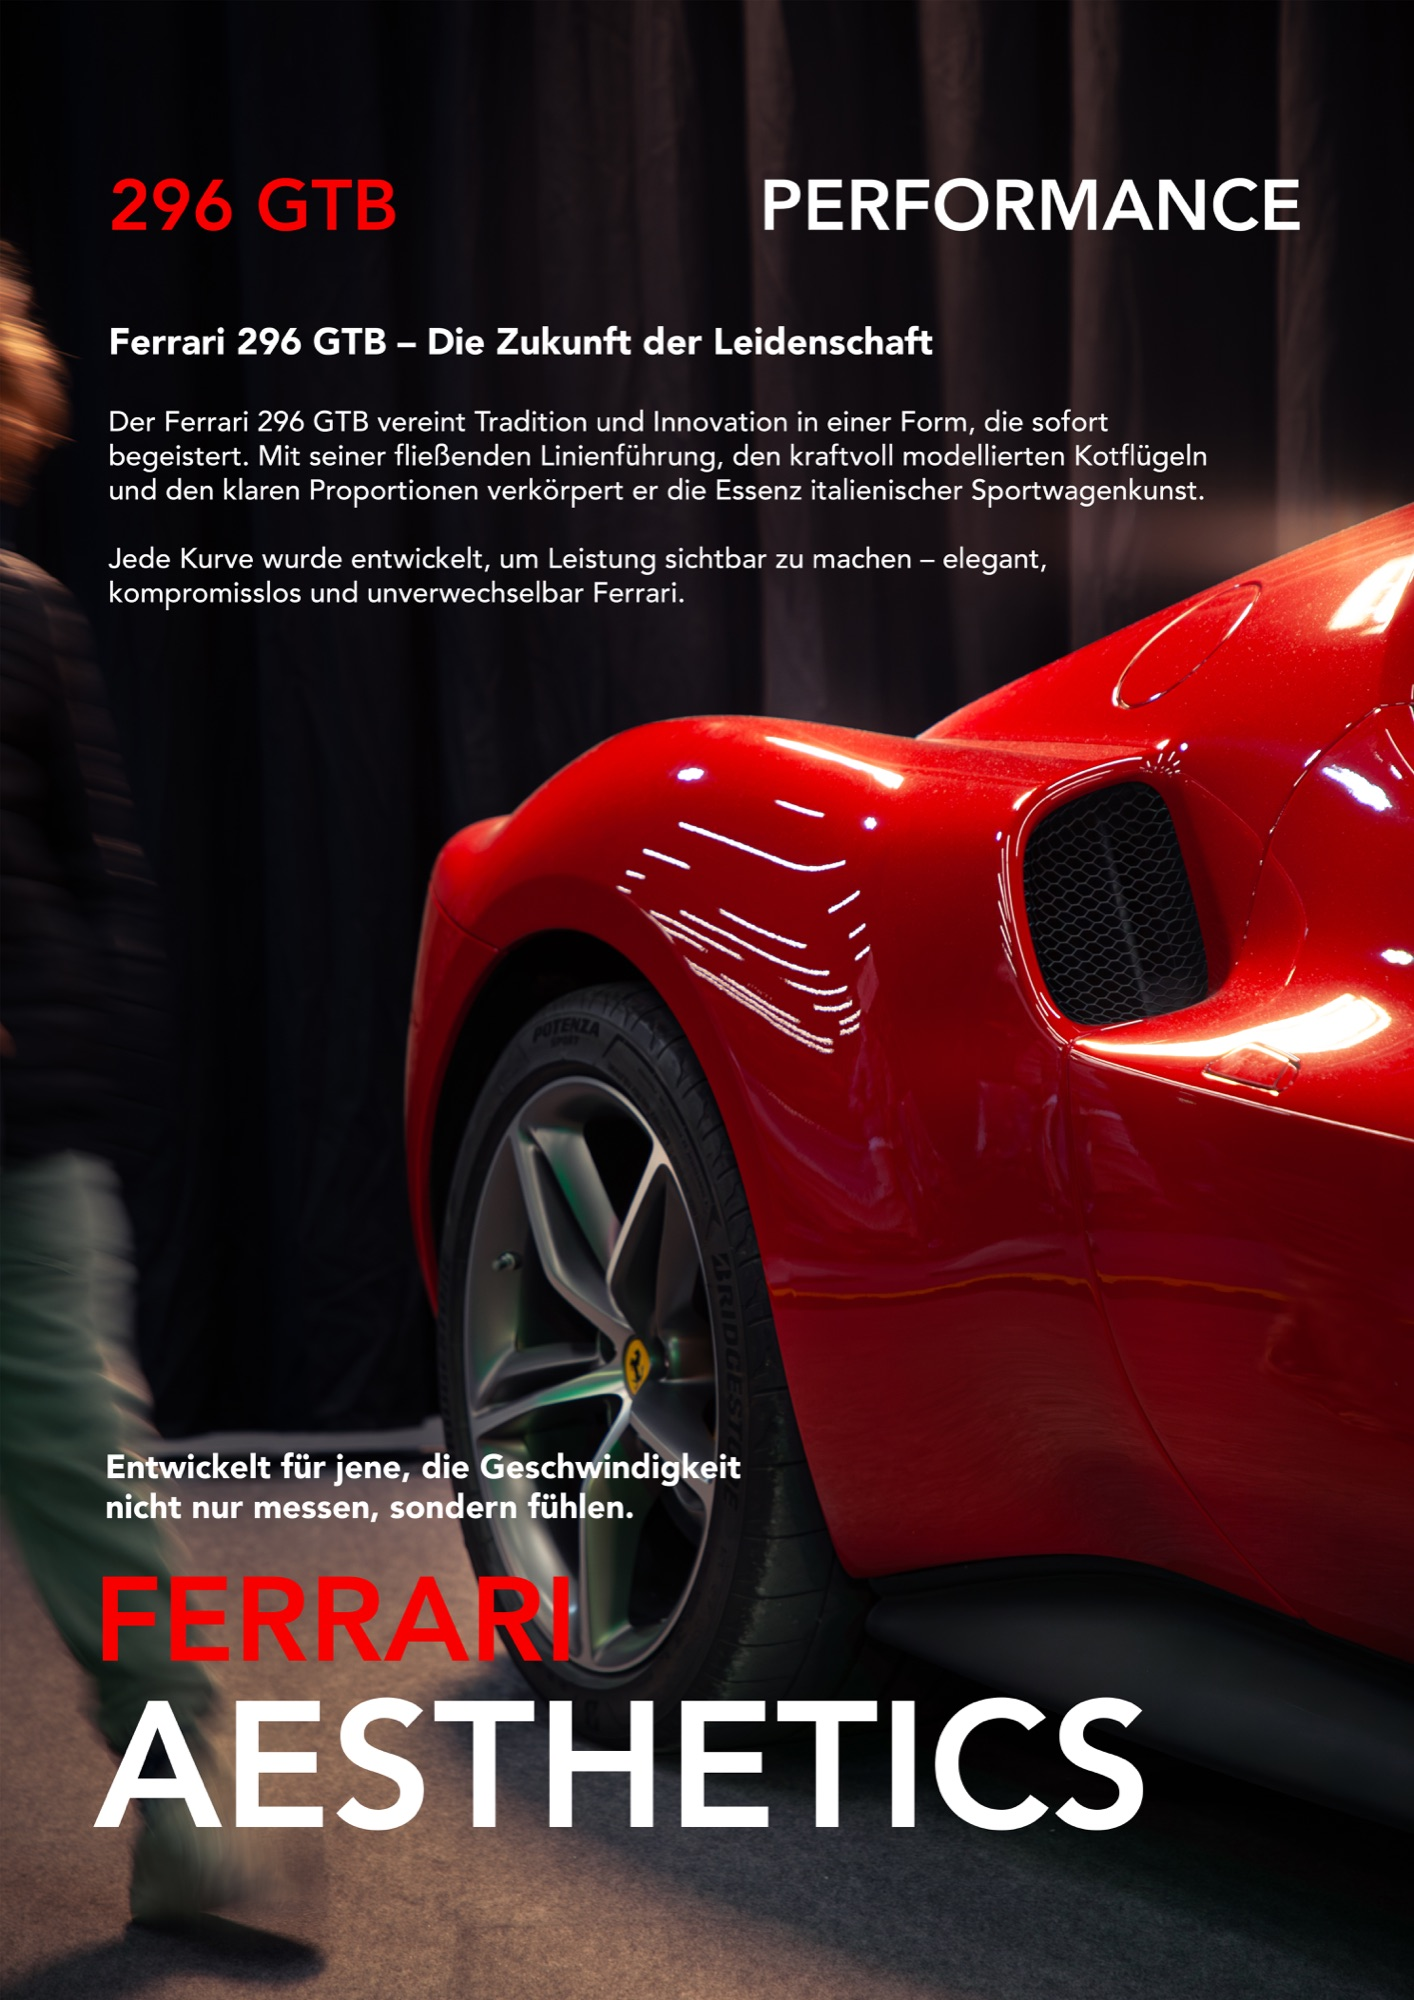
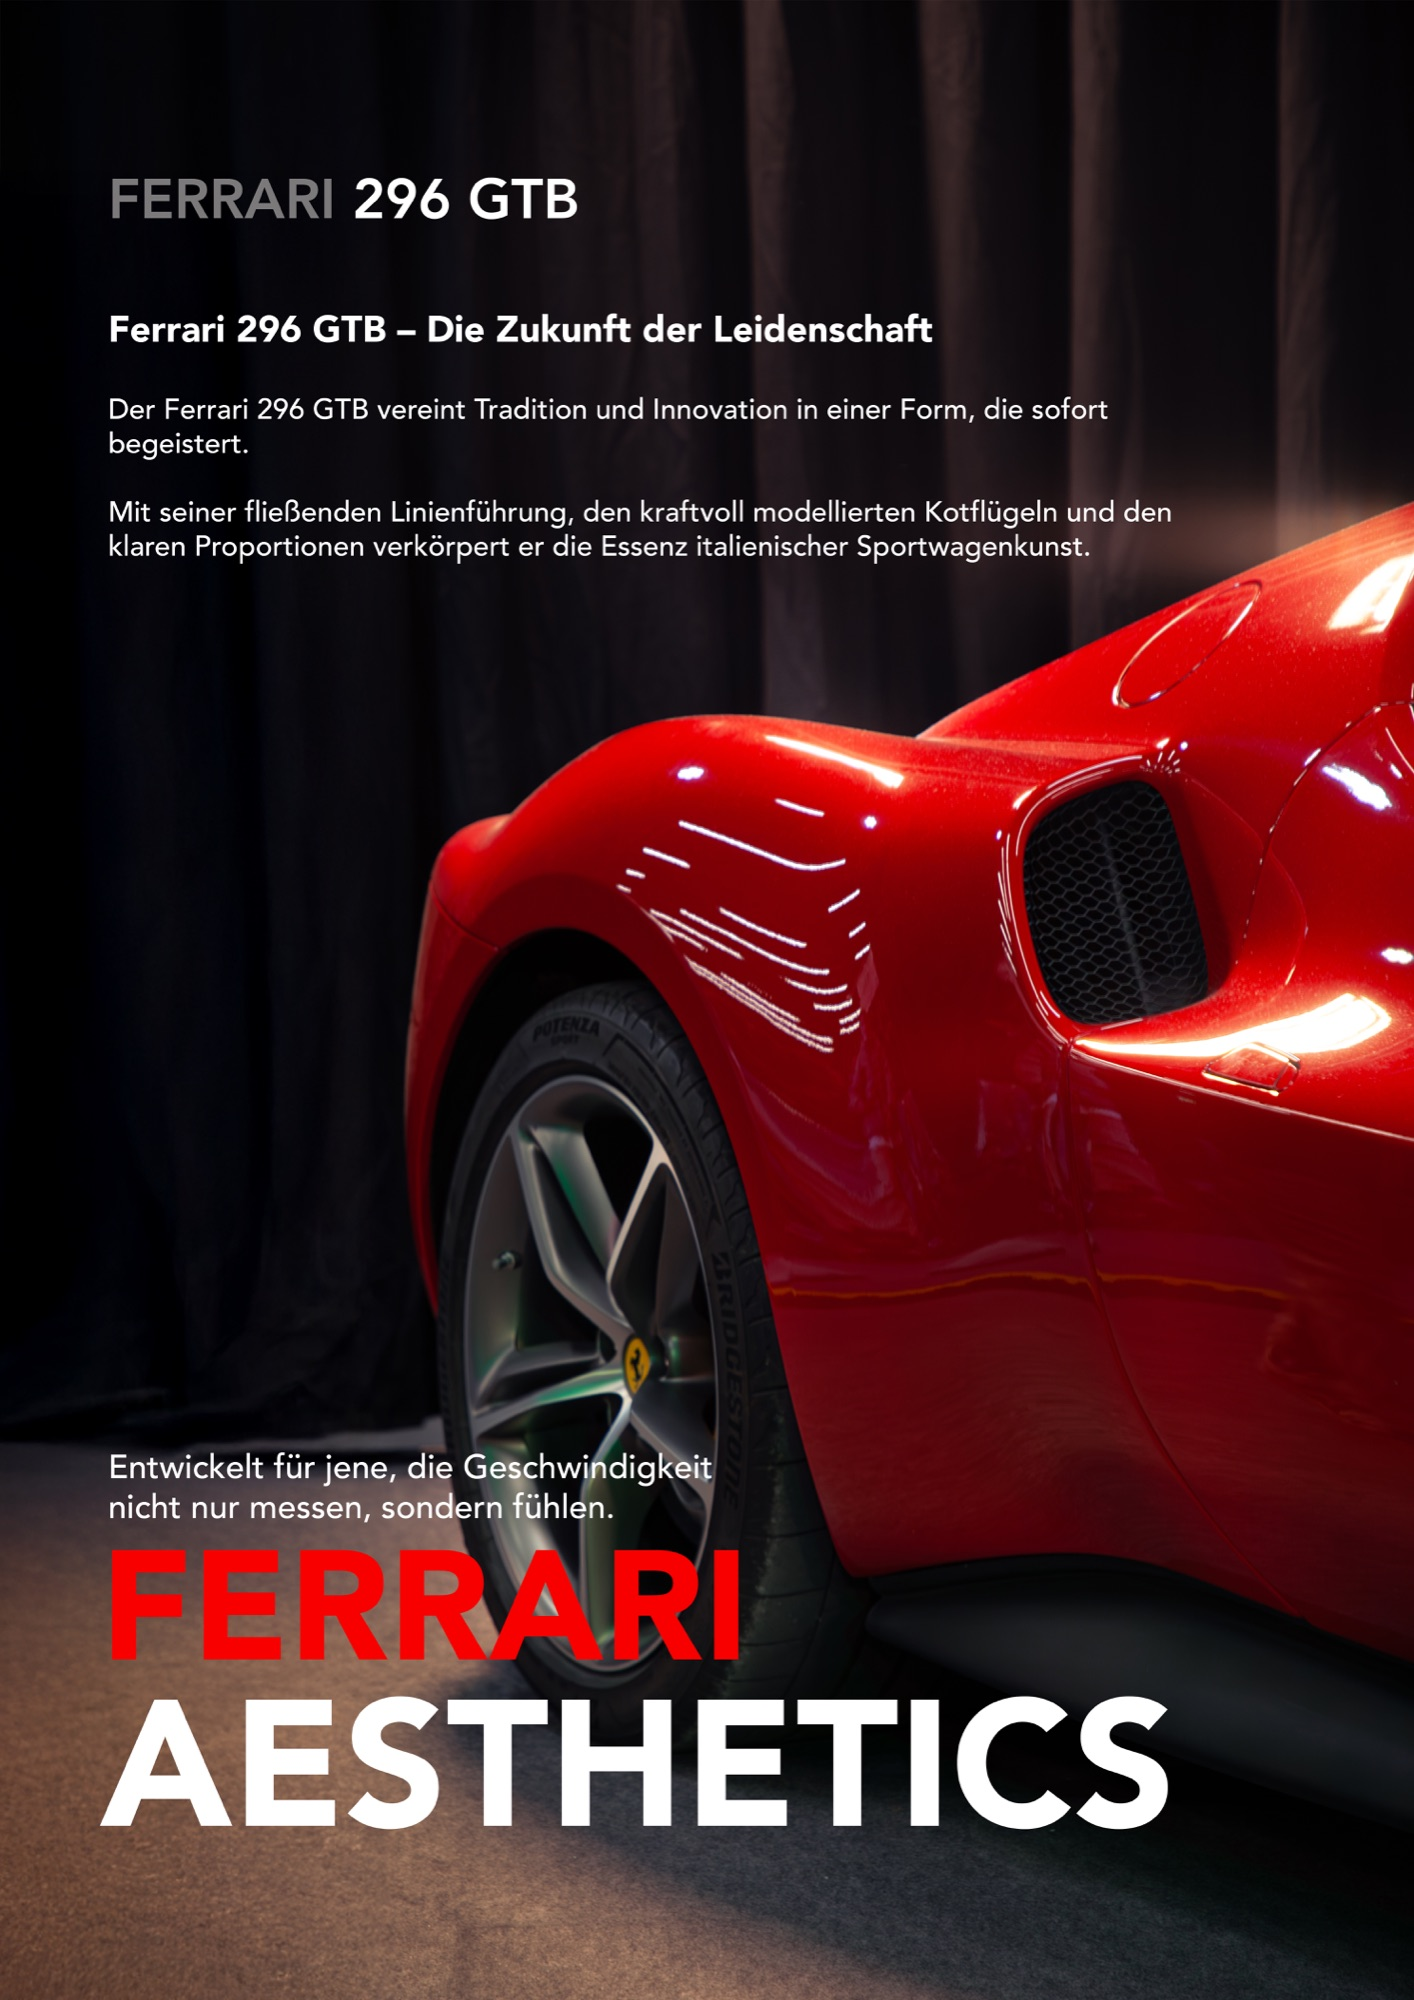
Refresh design posters, curate galleries, adjust design page layout
- Update Ferrari Aesthetics and Lando Norris posters with new artwork
- Remove Audi Heckdetail photo from automotive gallery
- Reshuffle motorsport gallery order for better visual variety
- Resize and reposition the poster pair on the design page

diff --git a/src/data/galleries.ts b/src/data/galleries.ts
@@ -51,7 +51,6 @@ export const automotiveGallery: Shot[] = [
   { src: "/images/cars/automotive/_MG_5995.jpg", alt: "Weißer Audi Q4 e-tron auf einer Waldstraße", cap: "Audi Q4 e-tron" },
   { src: "/images/cars/automotive/_MG_6003.jpg", alt: "Scheinwerfer-Detail eines weißen Elektroautos", cap: "Scheinwerfer-Detail" },
   { src: "/images/cars/automotive/_MG_6020.jpg", alt: "Rad-Detail eines silbernen Audi SUV vor Waldkulisse", cap: "Audi · Rad-Detail" },
-  { src: "/images/cars/automotive/_MG_6037.jpg", alt: "Heck-Detail eines weißen Audi SUV mit Rad und Rücklicht vor Wald", cap: "Audi · Heckdetail" },
   { src: "/images/cars/automotive/_MG_6038.jpg", alt: "Rad-Detail eines weißen Audi auf Schotterweg", cap: "Audi · Rad auf Schotter" },
   { src: "/images/cars/automotive/_MG_6043.jpg", alt: "Interieur eines Audi mit Blick durch die Windschutzscheibe in den Wald", cap: "Audi · Interieur" },
   { src: "/images/cars/automotive/_MG_6045.jpg", alt: "Audi Interieurdetail, Einstiegsleiste mit S-line-Logo", cap: "Audi · S-line-Detail" },
@@ -85,26 +84,26 @@ export const automotiveGallery: Shot[] = [
 
 export const motorsportGallery: Shot[] = [
   { src: "/images/cars/motorsport/cars-04-porsche-911-track.jpg", alt: "Porsche 911 auf der Rennstrecke", cap: "Porsche 911 · Strecke" },
-  { src: "/images/cars/motorsport/cars-06-drift-smoke.jpg", alt: "Driftauto mit Reifenrauch", cap: "Drift · Rauch" },
-  { src: "/images/cars/motorsport/cars-07-drift-e30.jpg", alt: "BMW E30 Driftauto auf der Rennstrecke", cap: "Drift · E30" },
-  { src: "/images/cars/motorsport/cars-10-vintage-race.jpg", alt: "Vintage-Rennwagen auf dem Startgrid", cap: "Vintage Race" },
   { src: "/images/cars/motorsport/_MG_1455.jpg", alt: "BMW E30 Driftauto beim Tuning-Event in dichtem Reifenrauch, Fahrer P. Steffe", cap: "Drift · Tuning-Event" },
-  { src: "/images/cars/motorsport/_MG_1481.jpg", alt: "Mintgrünes BMW E30 Driftauto in dichtem Reifenrauch", cap: "Drift · Rauchwolke" },
-  { src: "/images/cars/motorsport/_MG_1508.jpg", alt: "Zwei BMW E30 Driftautos im Doppel-Drift vor Publikum", cap: "Doppel-Drift" },
-  { src: "/images/cars/motorsport/_MG_1509.jpg", alt: "BMW E30 Driftautos im Duo-Drift vor Publikum", cap: "Drift-Duo" },
   { src: "/images/cars/motorsport/_MG_2493.jpg", alt: "Roter Porsche 911 GT3 in voller Fahrt auf der Rennstrecke", cap: "Porsche GT3 · Strecke" },
-  { src: "/images/cars/motorsport/_MG_2498.jpg", alt: "Dunkelgrüner Porsche 911 GT3 RS mit roten Felgen auf der Rennstrecke", cap: "GT3 RS · Grün" },
-  { src: "/images/cars/motorsport/_MG_2509.jpg", alt: "Blauer Porsche 911 GT3 in voller Fahrt auf der Rennstrecke", cap: "GT3 · Blau" },
-  { src: "/images/cars/motorsport/_MG_2778.jpg", alt: "Schwarzer Porsche 911 GT3 auf der Rennstrecke", cap: "GT3 · Schwarz" },
-  { src: "/images/cars/motorsport/_MG_4426.jpg", alt: "Roter Porsche 911 GT3 RS mit Startnummer 25 auf der Rennstrecke", cap: "GT3 RS · Startnummer 25" },
-  { src: "/images/cars/motorsport/_MG_4960.jpg", alt: "Roter Rennwagen mit Startnummer 15 auf der Rennstrecke", cap: "Rennwagen · Nr. 15" },
-  { src: "/images/cars/motorsport/_MG_5001.jpg", alt: "Rot-weißer GT-Rennwagen mit Startnummer 378 auf der Rennstrecke", cap: "GT-Rennwagen · Nr. 378" },
-  { src: "/images/cars/motorsport/_MG_5038.jpg", alt: "Roter De Tomaso Pantera Rennwagen mit Startnummer 735 auf der Rennstrecke", cap: "De Tomaso Pantera · Rennen" },
   { src: "/images/cars/motorsport/_MG_7058.jpg", alt: "Freestyle-Motocross-Fahrer bei einem Trick in der Luft", cap: "FMX · Trick" },
-  { src: "/images/cars/motorsport/_MG_7066.jpg", alt: "Freestyle-Motocross-Fahrer bei einem Superman-Trick in der Luft", cap: "FMX · Superman" },
+  { src: "/images/cars/motorsport/cars-07-drift-e30.jpg", alt: "BMW E30 Driftauto auf der Rennstrecke", cap: "Drift · E30" },
+  { src: "/images/cars/motorsport/_MG_4426.jpg", alt: "Roter Porsche 911 GT3 RS mit Startnummer 25 auf der Rennstrecke", cap: "GT3 RS · Startnummer 25" },
   { src: "/images/cars/motorsport/_MG_7276.jpg", alt: "Rennmotorrad im Camel-Design auf der Rennstrecke", cap: "Rennmotorrad · Camel" },
-  { src: "/images/cars/motorsport/_MG_7441.jpg", alt: "Rennhelm mit auffälligem Leoparden-Design auf einem Fahrzeugdach", cap: "Rennhelm · Design" },
+  { src: "/images/cars/motorsport/_MG_1508.jpg", alt: "Zwei BMW E30 Driftautos im Doppel-Drift vor Publikum", cap: "Doppel-Drift" },
+  { src: "/images/cars/motorsport/_MG_2498.jpg", alt: "Dunkelgrüner Porsche 911 GT3 RS mit roten Felgen auf der Rennstrecke", cap: "GT3 RS · Grün" },
+  { src: "/images/cars/motorsport/_MG_4960.jpg", alt: "Roter Rennwagen mit Startnummer 15 auf der Rennstrecke", cap: "Rennwagen · Nr. 15" },
+  { src: "/images/cars/motorsport/cars-10-vintage-race.jpg", alt: "Vintage-Rennwagen auf dem Startgrid", cap: "Vintage Race" },
+  { src: "/images/cars/motorsport/_MG_2778.jpg", alt: "Schwarzer Porsche 911 GT3 auf der Rennstrecke", cap: "GT3 · Schwarz" },
+  { src: "/images/cars/motorsport/_MG_7066.jpg", alt: "Freestyle-Motocross-Fahrer bei einem Superman-Trick in der Luft", cap: "FMX · Superman" },
+  { src: "/images/cars/motorsport/_MG_1509.jpg", alt: "BMW E30 Driftautos im Duo-Drift vor Publikum", cap: "Drift-Duo" },
   { src: "/images/cars/motorsport/_SZ57143-Verbessert-NR.jpg", alt: "Schwarzer KTM X-Bow GT2-Rennwagen auf der Rennstrecke", cap: "KTM X-Bow GT2" },
+  { src: "/images/cars/motorsport/_MG_5001.jpg", alt: "Rot-weißer GT-Rennwagen mit Startnummer 378 auf der Rennstrecke", cap: "GT-Rennwagen · Nr. 378" },
+  { src: "/images/cars/motorsport/cars-06-drift-smoke.jpg", alt: "Driftauto mit Reifenrauch", cap: "Drift · Rauch" },
+  { src: "/images/cars/motorsport/_MG_2509.jpg", alt: "Blauer Porsche 911 GT3 in voller Fahrt auf der Rennstrecke", cap: "GT3 · Blau" },
+  { src: "/images/cars/motorsport/_MG_5038.jpg", alt: "Roter De Tomaso Pantera Rennwagen mit Startnummer 735 auf der Rennstrecke", cap: "De Tomaso Pantera · Rennen" },
+  { src: "/images/cars/motorsport/_MG_1481.jpg", alt: "Mintgrünes BMW E30 Driftauto in dichtem Reifenrauch", cap: "Drift · Rauchwolke" },
+  { src: "/images/cars/motorsport/_MG_7441.jpg", alt: "Rennhelm mit auffälligem Leoparden-Design auf einem Fahrzeugdach", cap: "Rennhelm · Design" },
 ];
 
 export const creativeGallery: Shot[] = [
